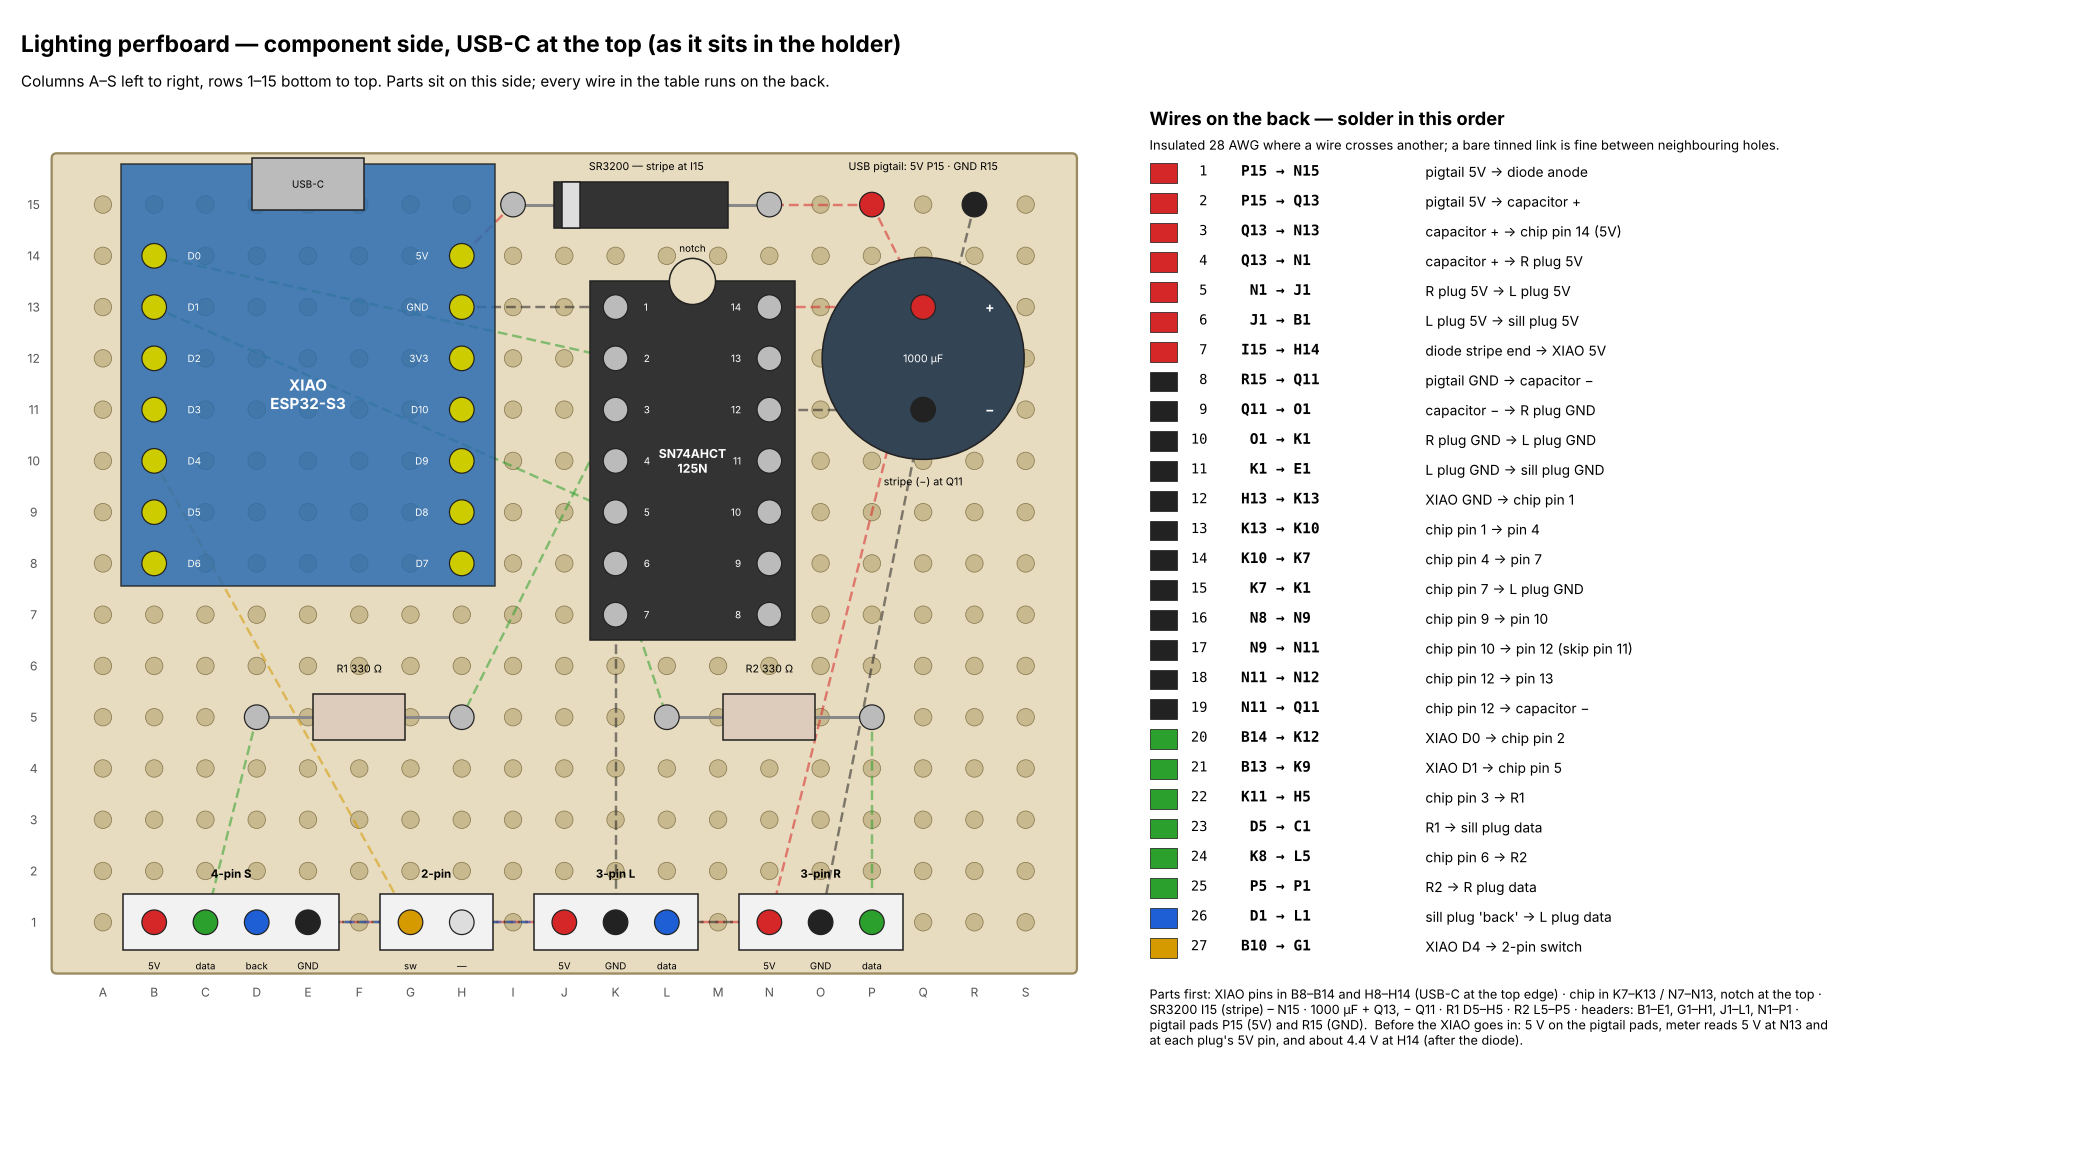
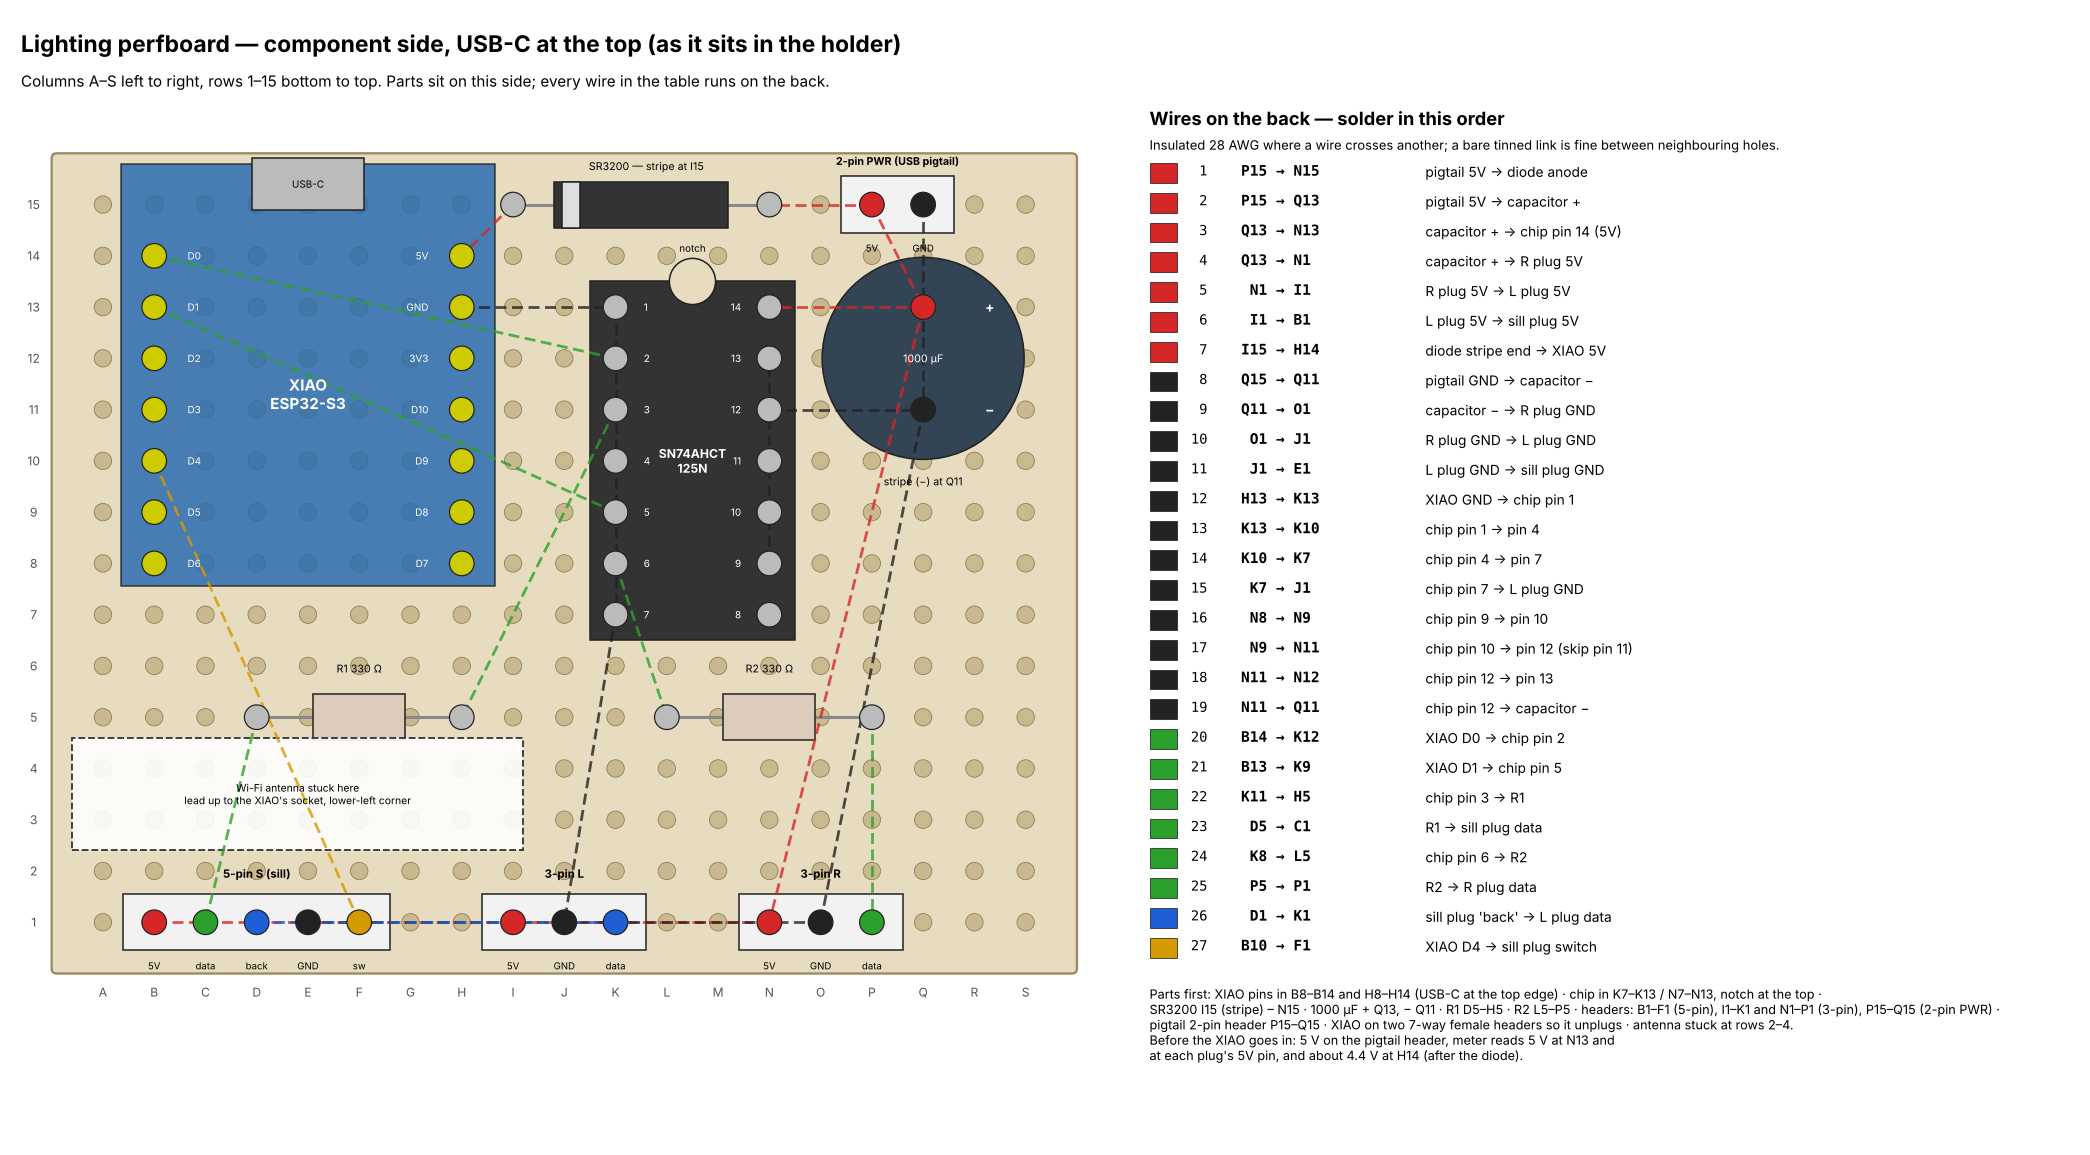
Wiring sheets rev 5: 5-pin sill plug, 2-pin PWR header, XIAO pins and SiglentGlow set-up
perfboard_layout.py: the sill plug becomes one 5-pin header (5V, data, back, GND, sw)
in B1-F1 instead of a 4-pin plus a 2-pin, the 3-pin L and R move to I1-K1 and N1-P1,
the USB pigtail gets a crimped 2-pin PWR header at P15-Q15 instead of solder pads,
the XIAO sits on two 7-way female headers, the Wi-Fi antenna is shown stuck at rows
2-4 with its lead to the u.FL socket; wire list and the parts-first note updated.

wiring_connections.py: D1 mini replaced by the XIAO ESP32-S3 (D0 / D1 / D4), 5 V into
the XIAO through the SR3200 (stripe towards the XIAO), the WLED block replaced by the
SiglentGlow firmware notes (buses, button, Wi-Fi set-up, siglentglow.local, MQTT).

perfboard-layout.png regenerated.

diff --git a/src/wiring_connections.py b/src/wiring_connections.py
@@ -1,4 +1,5 @@
-# wiring_connections.py — every connection in the lighting, on one sheet (D10 rev 4, 2026-10-25).
+# wiring_connections.py — every connection in the lighting, on one sheet (D10 rev 5, 2026-10-25: XIAO ESP32-S3 + SiglentGlow
+# firmware instead of the D1 mini + WLED; 5 V into the XIAO through an SR3200 Schottky; pins D0 / D1 / D4).
 # SN74AHCT125N level shifter on both data lines; strips are 15 LEDs each (30/m strip); every plug is a 2.54 mm locking
 # pin header (KF2510 type) soldered on the board with a crimped housing on the cable (SN-28B crimper): sill bundle on a
 # 4-pin (red, green, blue, black) + 2-pin (yellow), strips on 3-pin L and R.
@@ -40,7 +41,7 @@ def path(pts, c, lw=2.6, hops=()):
         X.append(x1); Y.append(y1)
     ax.plot(X, Y, color=c, lw=lw, solid_capstyle="round", solid_joinstyle="round", zorder=3)
 
-ax.text(1, 115.5, "Lighting — every connection (D10 rev 4, 2026-10-25)", fontsize=15, weight="bold")
+ax.text(1, 115.5, "Lighting — every connection (D10 rev 5, 2026-10-25: XIAO ESP32-S3)", fontsize=15, weight="bold")
 ax.text(1, 112, "Wire colours are the real ones:  red 5 V · black GND · green data · blue data back from the sill lights · yellow button switch.     "
         "● = soldered together     bump = wires cross, NOT joined     red tag = board 5 V, black tag = board GND",
         fontsize=9.5)
@@ -60,16 +61,23 @@ ax.add_patch(Rectangle((44, 34), 4, 5, fc="#cc0", ec=BLK, zorder=4)); txt(46, 41
 tag(51.5, 38, "5V", RED); tag(51.5, 35, "GND", BLK)
 ax.add_patch(Circle((60, 36.5), 2.6, fc="#345", ec=BLK, zorder=4)); txt(60, 36.5, "1000\nµF", ha="center", fontsize=6.5, color="w")
 txt(63.5, 38.5, "+ leg → 5V", fontsize=8); txt(63.5, 34.5, "striped leg → GND", fontsize=8)
-# D1 mini
+# XIAO ESP32-S3 (pins drawn by the labels printed on the board, not in their physical order)
 box(44, 49, 13, 51, fc="#2b6cb0", ec=BLK)
-txt(48.5, 74, "WEMOS D1 mini", ha="center", color="w", weight="bold", rotation=90, fontsize=10)
+txt(48.5, 74, "SEEED XIAO ESP32-S3", ha="center", color="w", weight="bold", rotation=90, fontsize=9.5)
 P = {}
-for i, p in enumerate(["5V", "G", "D4", "D3", "D2", "D1", "RX", "TX"]):
+for i, p in enumerate(["5V", "GND", "D1", "D4", "3V3", "D2", "D0", "D3"]):
     y = 96 - i * 6; P[p] = y
     ax.add_patch(Rectangle((57, y - 0.9), 2.4, 1.8, fc="#cc0", ec=BLK, zorder=4))
     txt(56.2, y, p, ha="right", color="w", weight="bold", fontsize=9.5)
-tag(62.2, P["5V"], "5V", RED); tag(62.4, P["G"], "GND", BLK)
-for p in ("D2", "D1", "TX"): txt(60.3, P[p], "empty", fontsize=7.5, color="#888")
+# 5 V into the XIAO through the Schottky (stripe towards the XIAO)
+path([(59.4, P["5V"]), (68, P["5V"])], RED)
+ax.add_patch(plt.Polygon([(65.6, P["5V"] - 1.3), (65.6, P["5V"] + 1.3), (62.6, P["5V"])], fc=BLK, ec=BLK, zorder=6))
+ax.add_patch(Rectangle((61.9, P["5V"] - 1.3), 0.6, 2.6, fc=BLK, ec=BLK, zorder=6))
+tag(70.5, P["5V"], "5V", RED)
+txt(63, P["5V"] + 3.2, "SR3200 Schottky\nstripe → XIAO", ha="center", fontsize=6.8)
+tag(62.4, P["GND"], "GND", BLK)
+for p in ("3V3", "D2", "D3"): txt(60.3, P[p], "empty", fontsize=7.5, color="#888")
+txt(50.5, 46.5, "D5–D10 empty", ha="center", fontsize=7.5, color="#555")
 # chip
 CX0, CX1, CY0, CY1 = 71, 84, 63, 85
 ax.add_patch(Rectangle((CX0, CY0), CX1 - CX0, CY1 - CY0, fc="#333", ec=BLK, zorder=4))
@@ -89,10 +97,10 @@ txt(105, 27.5, "grey = pin header soldered on the board · dark = crimped housin
     ha="center", fontsize=8, style="italic")
 # board wiring
 txt((CX0 + CX1) / 2, 60.3, "chip pin 14 → 5V\npins 1 4 7 9 10 12 13 → GND\npins 8, 11 empty", ha="center", fontsize=7.5)
-path([(59.4, P["D4"]), (65, P["D4"]), (65, IN5), (CX0, IN5)], GRN)
-path([(59.4, P["RX"]), (67, P["RX"]), (67, IN2), (CX0, IN2)], GRN)
+path([(59.4, P["D1"]), (65, P["D1"]), (65, IN5), (CX0, IN5)], GRN)
+path([(59.4, P["D0"]), (67, P["D0"]), (67, IN2), (CX0, IN2)], GRN)
 YSW = 91
-path([(59.4, P["D3"]), (68.5, P["D3"]), (68.5, YSW), (100, YSW), (100, J2["sw"]), (103, J2["sw"])], YEL, hops=[(87.5, YSW)])
+path([(59.4, P["D4"]), (68.5, P["D4"]), (68.5, YSW), (100, YSW), (100, J2["sw"]), (103, J2["sw"])], YEL, hops=[(87.5, YSW)])
 for yout, ydst in ((IN5, J4["data"]), (IN2, J1["grn"])):
     path([(CX1, yout), (87.5, yout), (87.5, ydst), (90, ydst)], GRN)
     ax.add_patch(Rectangle((90, ydst - 1), 6.5, 2, fc="#dcb", ec=BLK, zorder=5)); txt(93.25, ydst + 2, "330 Ω", ha="center", fontsize=7.5)
@@ -150,14 +158,14 @@ path([(126, J2["sw"]), (bx0 + 4, J2["sw"]), (bx0 + 4, 76.4)], YEL, hops=[(bx0 + 
 path([(bx0 + 1.5, 74), (bx0 + 1.5, RR)], RED); dot(bx0 + 1.5, RR, RED); txt(bx0 - 2.6, 78.2, "LED +", fontsize=6.5)
 path([(bx0 + 8, 69), (bx0 + 8, RB)], BLK); dot(bx0 + 8, RB, BLK); txt(bx0 + 8.4, 61.8, "LED − & switch 2 (linked)", fontsize=6.3, ha="right")
 
-# ---------------------------------------------------------------- WLED
+# ---------------------------------------------------------------- firmware
 box(2, 7, 176, 15, fc="#f6f6f6")
-txt(4, 19.5, "WLED  (Config → LED Preferences)", weight="bold", fontsize=10)
+txt(4, 19.5, "Firmware: SiglentGlow (IguanaPlatform, like MorayGlow) — brief: SiglentGlow-BRIEF.md", weight="bold", fontsize=10)
 ax.text(4, 16.8,
-        "Output 1:  WS281x · GRB · GPIO 3 (RX) · start 0 · length 17      ← the 2 sill lights (0–1), then the left strip (2–16)\n"
-        "Output 2:  WS281x · GRB · GPIO 2 (D4) · start 17 · length 15     ← the right strip (17–31)\n"
-        "Maximum current: 1500 mA        Button 0: GPIO 0 (D3), Pushbutton        Segments: halo 0–1 · left 2–16 · right 17–31\n"
-        "Short press = on/off; long press = next preset.  Everything after the first USB flash is over Wi-Fi (RX is the LED output, so no serial console).",
+        "D0 (GPIO1) → bus 1: 17 LEDs = 2 sill lights (0–1) + left strip (2–16)      D1 (GPIO2) → bus 2: 15 LEDs = right strip\n"
+        "D4 (GPIO5) ← button: short press = on/off · hold 5 s = factory reset (sill lights count down in red)      current limit 1500 mA\n"
+        "Set-up: join Wi-Fi 'SiglentGlow-XXXXXX' (password siglentglow) → pick your network → http://siglentglow.local → MQTT on /settings.html\n"
+        "The XIAO's USB-C is for the first flash at the desk; after that, updates go over Wi-Fi.  The LEDs take 5 V straight from the pigtail, never through the XIAO.",
         fontsize=8.8, va="top", family="monospace", zorder=6)
 
 os.makedirs(OUT, exist_ok=True)

diff --git a/src/perfboard_layout.py b/src/perfboard_layout.py
@@ -1,5 +1,5 @@
 # perfboard_layout.py — the lighting perfboard (D10 rev 5, 2026-10-25): XIAO ESP32-S3, SN74AHCT125N, SR3200, 2 x 330R,
-# 1000 uF, USB pigtail pads, four 2.54 mm locking pin headers along the bottom edge. 50 x 40 board = 19 x 15 holes.
+# 1000 uF, USB pigtail header, three 2.54 mm locking pin headers along the bottom edge (5-pin sill, 3-pin L, 3-pin R) and a 2-pin for the USB pigtail. 50 x 40 board = 19 x 15 holes.
 # Component side shown; every wire runs on the back. Output: parts/wiring/perfboard-layout.png
 import os, matplotlib; matplotlib.use("Agg")
 import matplotlib.pyplot as plt
@@ -45,10 +45,14 @@ for (c0, c1, name) in ((3, 7, "R1 330 Ω"), (11, 15, "R2 330 Ω")):
     ax.plot([c0, c1], [4, 4], color=GRY, lw=2, zorder=3)
     ax.add_patch(Rectangle((c0 + 1.1, 3.55), c1 - c0 - 2.2, 0.9, fc="#dcb", ec=BLK, zorder=4)); pin(c0, 4, "#bbb"); pin(c1, 4, "#bbb")
     lab((c0 + c1) / 2, 4.95, name, fontsize=7)
+# Wi-Fi antenna: the XIAO's flat antenna stuck to the board between the XIAO and the headers (rows 2-4, cols A-I),
+# component side; its lead goes up to the u.FL socket at the XIAO's lower-left corner. The only metal near it is the
+# rail behind the board, ~10 mm away; the frame is an open lattice.
+ax.add_patch(Rectangle((-0.6, 1.4), 8.8, 2.2, fc="#fff", ec=BLK, lw=1.2, ls="--", zorder=5, alpha=0.9))
+lab(3.8, 2.5, "Wi-Fi antenna stuck here\nlead up to the XIAO's socket, lower-left corner", fontsize=6.8)
 # pin headers on row 1 (latch ramp towards the board edge)
-HDR = [("4-pin S", [(1, RED, "5V"), (2, GRN, "data"), (3, BLU, "back"), (4, BLK, "GND")]),
-       ("2-pin", [(6, YEL, "sw"), (7, None, "—")]),
-       ("3-pin L", [(9, RED, "5V"), (10, BLK, "GND"), (11, BLU, "data")]),
+HDR = [("5-pin S (sill)", [(1, RED, "5V"), (2, GRN, "data"), (3, BLU, "back"), (4, BLK, "GND"), (5, YEL, "sw")]),
+       ("3-pin L", [(8, RED, "5V"), (9, BLK, "GND"), (10, BLU, "data")]),
        ("3-pin R", [(13, RED, "5V"), (14, BLK, "GND"), (15, GRN, "data")])]
 for name, pins in HDR:
     cs = [p[0] for p in pins]
@@ -56,25 +60,26 @@ for name, pins in HDR:
     for c, col, t in pins:
         pin(c, 0, col or "#ddd"); lab(c, -0.85, t, fontsize=6.3)
     lab((min(cs) + max(cs)) / 2, 0.95, name, fontsize=7.5, weight="bold")
-# USB pigtail pads P15 / R15
-pin(15, 14, RED); pin(17, 14, BLK); lab(16, 14.75, "USB pigtail: 5V P15 · GND R15", fontsize=7)
+# USB pigtail: a 2-pin locking header at P15 (5V) / Q15 (GND), crimped like the other plugs
+ax.add_patch(Rectangle((14.4, 13.45), 2.2, 1.1, fc="#f2f2f2", ec=BLK, zorder=4))
+pin(15, 14, RED); pin(16, 14, BLK); lab(15.5, 14.85, "2-pin PWR (USB pigtail)", fontsize=7, weight="bold"); lab(15, 13.15, "5V", fontsize=6.3); lab(16, 13.15, "GND", fontsize=6.3)
 
 WIRES = [  # (colour, from (c,r), to (c,r), what)
     (RED, (15, 14), (13, 14), "pigtail 5V → diode anode"),
     (RED, (15, 14), (16, 12), "pigtail 5V → capacitor +"),
     (RED, (16, 12), (13, 12), "capacitor + → chip pin 14 (5V)"),
     (RED, (16, 12), (13, 0), "capacitor + → R plug 5V"),
-    (RED, (13, 0), (9, 0), "R plug 5V → L plug 5V"),
-    (RED, (9, 0), (1, 0), "L plug 5V → sill plug 5V"),
+    (RED, (13, 0), (8, 0), "R plug 5V → L plug 5V"),
+    (RED, (8, 0), (1, 0), "L plug 5V → sill plug 5V"),
     (RED, (8, 14), (7, 13), "diode stripe end → XIAO 5V"),
-    (BLK, (17, 14), (16, 10), "pigtail GND → capacitor −"),
+    (BLK, (16, 14), (16, 10), "pigtail GND → capacitor −"),
     (BLK, (16, 10), (14, 0), "capacitor − → R plug GND"),
-    (BLK, (14, 0), (10, 0), "R plug GND → L plug GND"),
-    (BLK, (10, 0), (4, 0), "L plug GND → sill plug GND"),
+    (BLK, (14, 0), (9, 0), "R plug GND → L plug GND"),
+    (BLK, (9, 0), (4, 0), "L plug GND → sill plug GND"),
     (BLK, (7, 12), (10, 12), "XIAO GND → chip pin 1"),
     (BLK, (10, 12), (10, 9), "chip pin 1 → pin 4"),
     (BLK, (10, 9), (10, 6), "chip pin 4 → pin 7"),
-    (BLK, (10, 6), (10, 0), "chip pin 7 → L plug GND"),
+    (BLK, (10, 6), (9, 0), "chip pin 7 → L plug GND"),
     (BLK, (13, 7), (13, 8), "chip pin 9 → pin 10"),
     (BLK, (13, 8), (13, 10), "chip pin 10 → pin 12 (skip pin 11)"),
     (BLK, (13, 10), (13, 11), "chip pin 12 → pin 13"),
@@ -85,11 +90,11 @@ WIRES = [  # (colour, from (c,r), to (c,r), what)
     (GRN, (3, 4), (2, 0), "R1 → sill plug data"),
     (GRN, (10, 7), (11, 4), "chip pin 6 → R2"),
     (GRN, (15, 4), (15, 0), "R2 → R plug data"),
-    (BLU, (3, 0), (11, 0), "sill plug 'back' → L plug data"),
-    (YEL, (1, 9), (6, 0), "XIAO D4 → 2-pin switch"),
+    (BLU, (3, 0), (10, 0), "sill plug 'back' → L plug data"),
+    (YEL, (1, 9), (5, 0), "XIAO D4 → sill plug switch"),
 ]
 for i, (col, a, b, _) in enumerate(WIRES, 1):
-    ax.plot([a[0], b[0]], [a[1], b[1]], color=col, lw=1.6, alpha=0.55, zorder=2, ls=(0, (4, 2)))
+    ax.plot([a[0], b[0]], [a[1], b[1]], color=col, lw=1.8, alpha=0.8, zorder=5.5, ls=(0, (4, 2)))
 # table
 tb.set_xlim(0, 1); tb.set_ylim(0, 1)
 tb.text(0, 0.985, "Wires on the back — solder in this order", fontsize=12, weight="bold", va="top")
@@ -103,8 +108,8 @@ for i, (col, a, b, what) in enumerate(WIRES, 1):
     y -= 0.03
 tb.text(0, y - 0.01,
         "Parts first: XIAO pins in B8–B14 and H8–H14 (USB-C at the top edge) · chip in K7–K13 / N7–N13, notch at the top ·\n"
-        "SR3200 I15 (stripe) – N15 · 1000 µF + Q13, − Q11 · R1 D5–H5 · R2 L5–P5 · headers: B1–E1, G1–H1, J1–L1, N1–P1 ·\n"
-        "pigtail pads P15 (5V) and R15 (GND).  Before the XIAO goes in: 5 V on the pigtail pads, meter reads 5 V at N13 and\n"
+        "SR3200 I15 (stripe) – N15 · 1000 µF + Q13, − Q11 · R1 D5–H5 · R2 L5–P5 · headers: B1–F1 (5-pin), I1–K1 and N1–P1 (3-pin), P15–Q15 (2-pin PWR) ·\n"
+        "pigtail 2-pin header P15–Q15 · XIAO on two 7-way female headers so it unplugs · antenna stuck at rows 2–4.\nBefore the XIAO goes in: 5 V on the pigtail header, meter reads 5 V at N13 and\n"
         "at each plug's 5V pin, and about 4.4 V at H14 (after the diode).",
         fontsize=8.3, va="top")
 os.makedirs(OUT, exist_ok=True)
